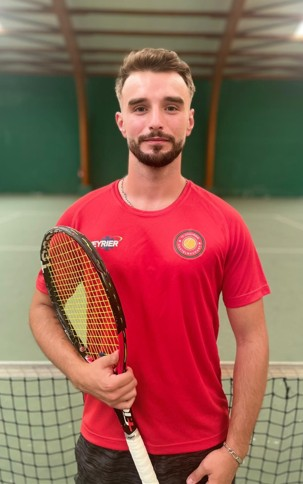
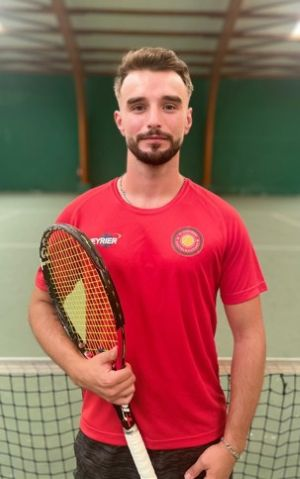
resize img

diff --git a/styles/components/cours.css b/styles/components/cours.css
@@ -29,7 +29,7 @@
 /* Face avant et arrière des cartes de présentation des coachs : image de fond générique */
 .coach__presentation_front_R,
 .coach__presentation_back_R {
-  background-image: url(/img/photos/couvert.jpg);
+  background-image: url(/img/photos/renan.jpg);
   background-size: cover; /* Image couvre tout le conteneur */
   background-position: 50%; /* Centrage de l'image */
 }
